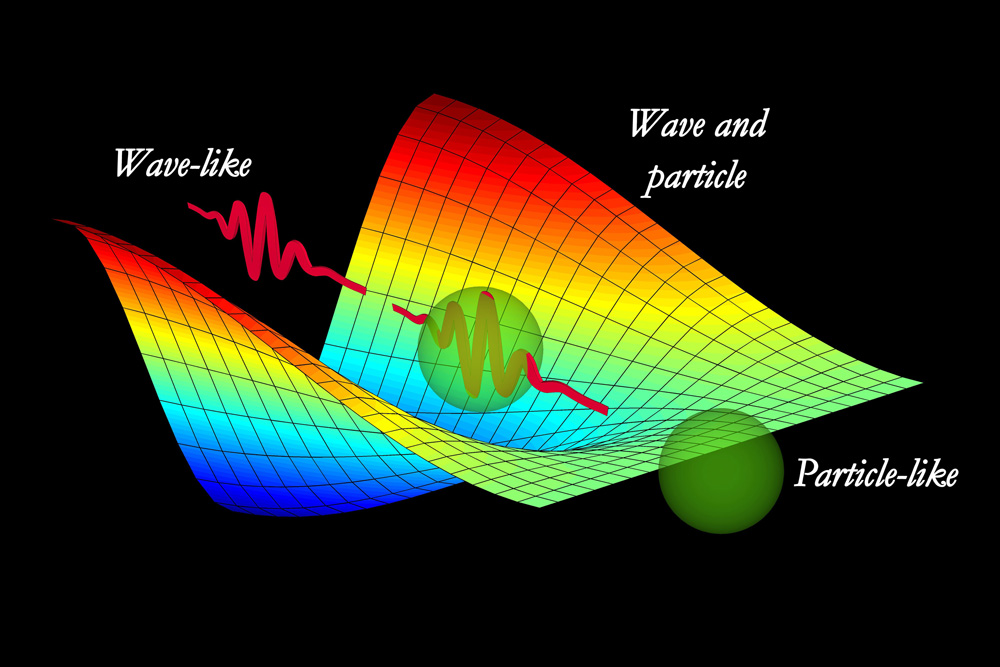
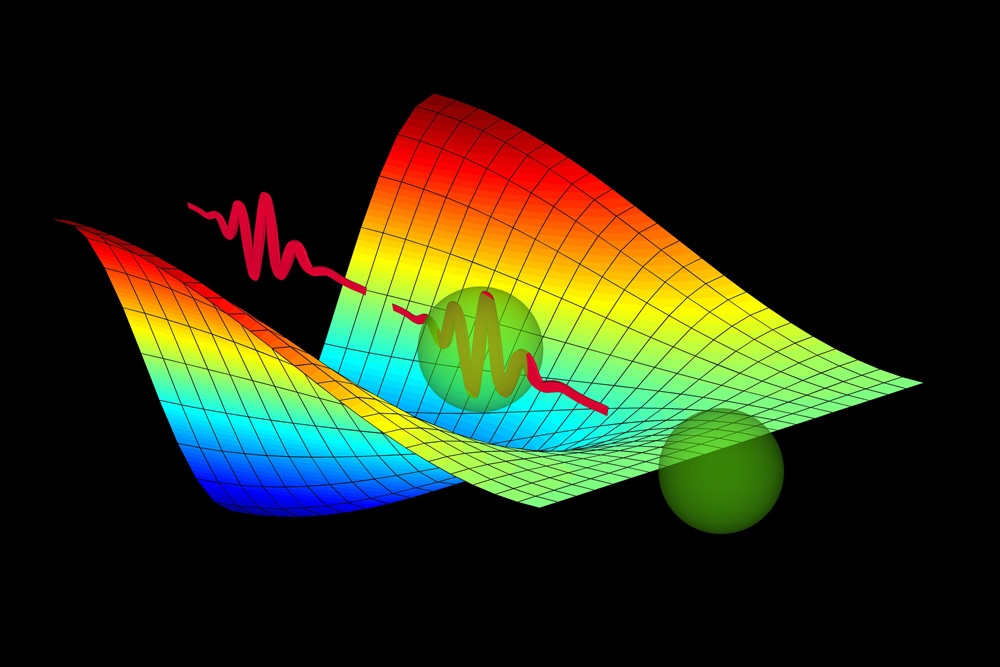
subpages

diff --git a/app/components/site-nav.tsx b/app/components/site-nav.tsx
@@ -1,0 +1,27 @@
+import Link from "next/link";
+
+const navItems = [
+  { href: "/music", label: "Music" },
+  { href: "/video", label: "Video" },
+  { href: "/events", label: "Events" },
+  { href: "/merch", label: "Merch" },
+  { href: "/updates", label: "Updates" },
+  { href: "/about", label: "About" },
+  { href: "/contact", label: "Contact" },
+] as const;
+
+export function SiteNav({ overlay = false }: { overlay?: boolean }) {
+  const linkClass = overlay
+    ? "px-2 py-1 text-white/90 transition-colors hover:text-white"
+    : "px-2 py-1 text-foreground/70 transition-colors hover:text-foreground";
+
+  return (
+    <nav className="flex flex-wrap items-center justify-center gap-x-6 gap-y-2 text-sm uppercase tracking-widest">
+      {navItems.map(({ href, label }) => (
+        <Link key={href} href={href} className={linkClass}>
+          {label}
+        </Link>
+      ))}
+    </nav>
+  );
+}

diff --git a/app/components/page-shell.tsx b/app/components/page-shell.tsx
@@ -1,0 +1,14 @@
+export function PageShell({
+  title,
+  children,
+}: {
+  title: string;
+  children?: React.ReactNode;
+}) {
+  return (
+    <main className="mx-auto flex w-full max-w-4xl flex-1 flex-col px-6 py-16">
+      <h1 className="text-3xl font-light uppercase tracking-widest">{title}</h1>
+      {children}
+    </main>
+  );
+}

diff --git a/app/page.tsx b/app/page.tsx
@@ -1,10 +1,16 @@
 import bgImage from "./duality.jpg";
+import { SiteNav } from "./components/site-nav";
 
 export default function Home() {
   return (
     <div
-      className="flex-1 min-h-screen w-full bg-cover bg-center bg-no-repeat"
+      className="relative flex flex-1 min-h-screen w-full items-center justify-center bg-cover bg-center bg-no-repeat"
       style={{ backgroundImage: `url(${bgImage.src})` }}
-    />
+    >
+      <div className="pointer-events-none absolute inset-0 bg-black/20" />
+      <div className="relative z-10">
+        <SiteNav overlay />
+      </div>
+    </div>
   );
 }

diff --git a/app/about/page.tsx b/app/about/page.tsx
@@ -1,0 +1,5 @@
+import { PageShell } from "../components/page-shell";
+
+export default function AboutPage() {
+  return <PageShell title="About" />;
+}

diff --git a/app/contact/page.tsx b/app/contact/page.tsx
@@ -1,0 +1,5 @@
+import { PageShell } from "../components/page-shell";
+
+export default function ContactPage() {
+  return <PageShell title="Contact" />;
+}

diff --git a/app/events/page.tsx b/app/events/page.tsx
@@ -1,0 +1,5 @@
+import { PageShell } from "../components/page-shell";
+
+export default function EventsPage() {
+  return <PageShell title="Events" />;
+}

diff --git a/app/merch/page.tsx b/app/merch/page.tsx
@@ -1,0 +1,5 @@
+import { PageShell } from "../components/page-shell";
+
+export default function MerchPage() {
+  return <PageShell title="Merch" />;
+}

diff --git a/app/music/page.tsx b/app/music/page.tsx
@@ -1,0 +1,5 @@
+import { PageShell } from "../components/page-shell";
+
+export default function MusicPage() {
+  return <PageShell title="Music" />;
+}

diff --git a/app/updates/page.tsx b/app/updates/page.tsx
@@ -1,0 +1,5 @@
+import { PageShell } from "../components/page-shell";
+
+export default function UpdatesPage() {
+  return <PageShell title="Updates" />;
+}

diff --git a/app/video/page.tsx b/app/video/page.tsx
@@ -1,0 +1,5 @@
+import { PageShell } from "../components/page-shell";
+
+export default function VideoPage() {
+  return <PageShell title="Video" />;
+}